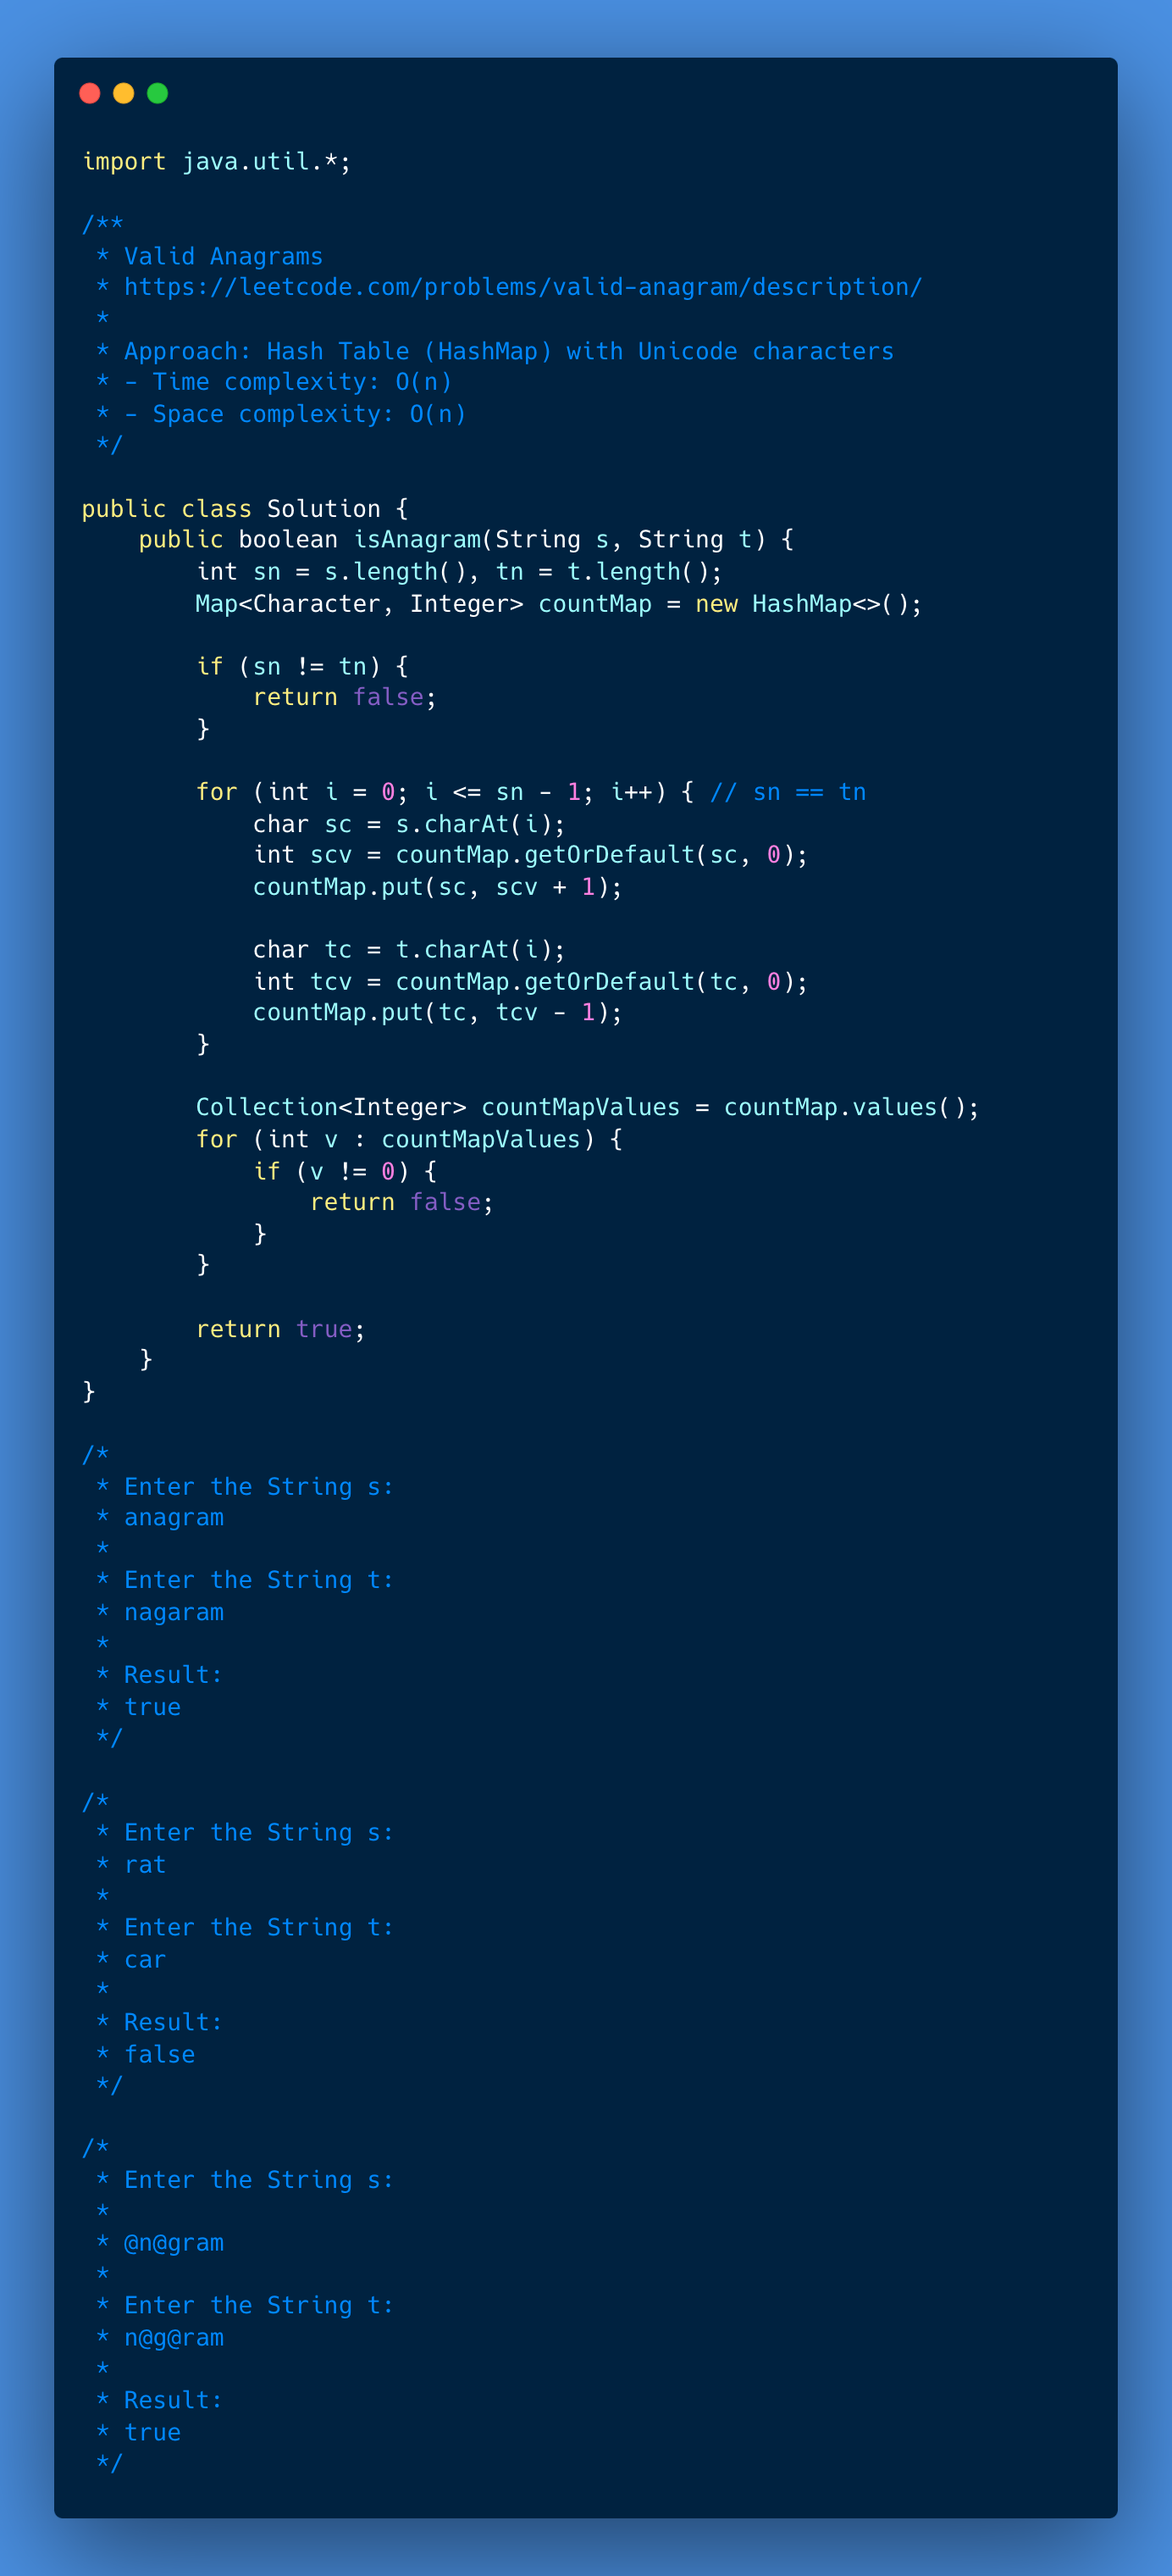
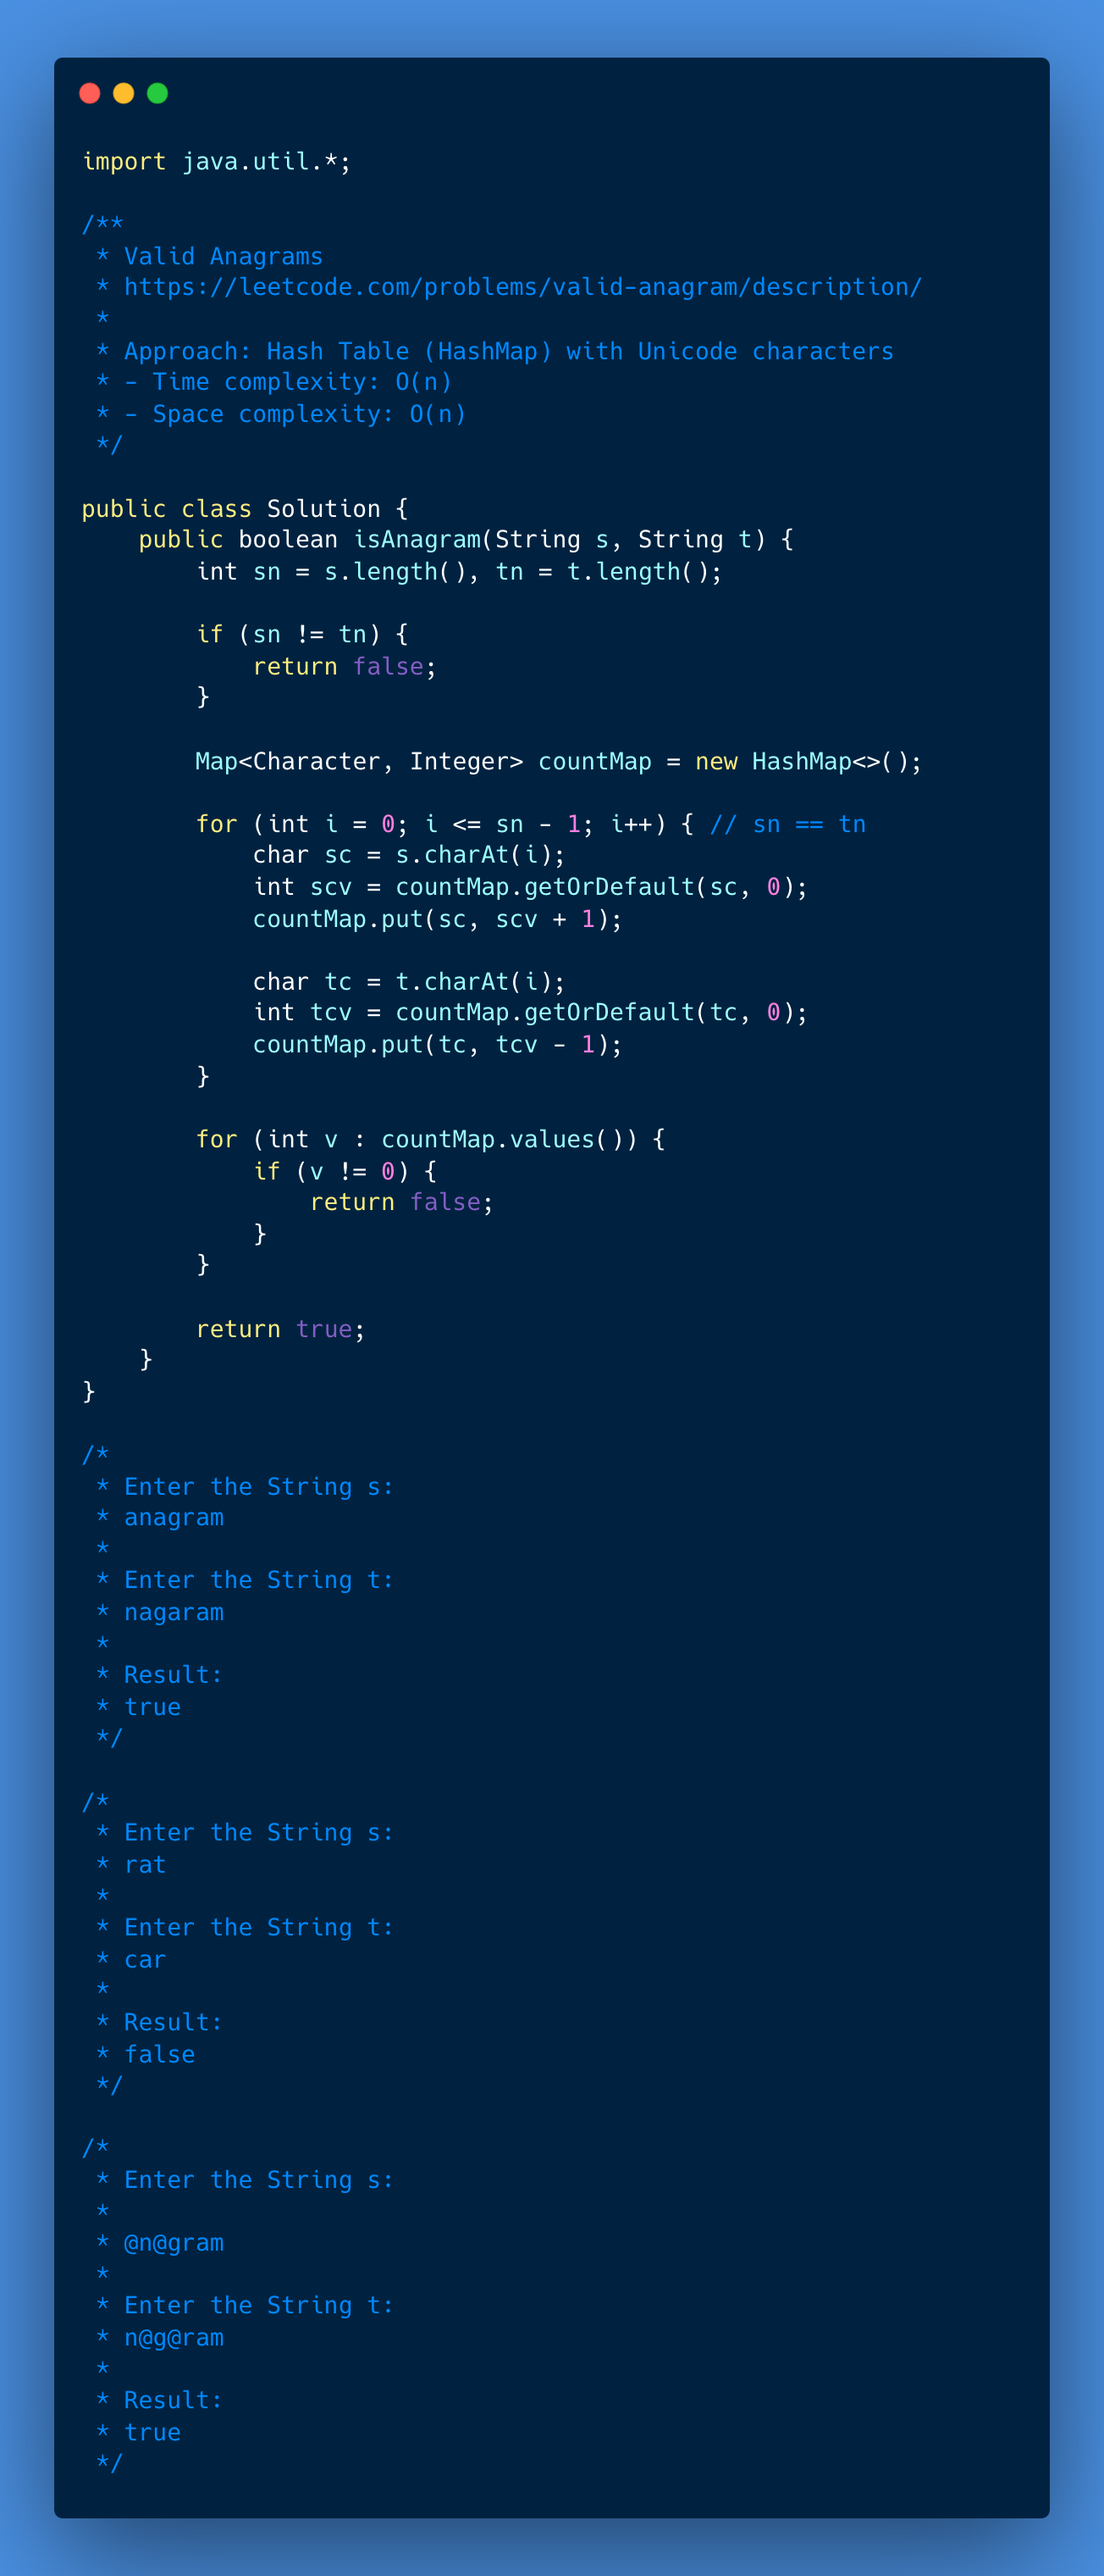
code updates

diff --git a/073-valid-anagrams/002-solution/Solution.java b/073-valid-anagrams/002-solution/Solution.java
@@ -12,11 +12,12 @@ import java.util.*;
 public class Solution {
     public boolean isAnagram(String s, String t) {
         int sn = s.length(), tn = t.length();
-        Map<Character, Integer> countMap = new HashMap<>();
 
         if (sn != tn) {
             return false;
         }
+
+        Map<Character, Integer> countMap = new HashMap<>();
 
         for (int i = 0; i <= sn - 1; i++) { // sn == tn
             char sc = s.charAt(i);
@@ -28,8 +29,7 @@ public class Solution {
             countMap.put(tc, tcv - 1);
         }
 
-        Collection<Integer> countMapValues = countMap.values();
-        for (int v : countMapValues) {
+        for (int v : countMap.values()) {
             if (v != 0) {
                 return false;
             }
